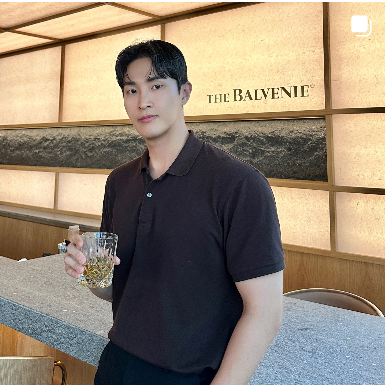
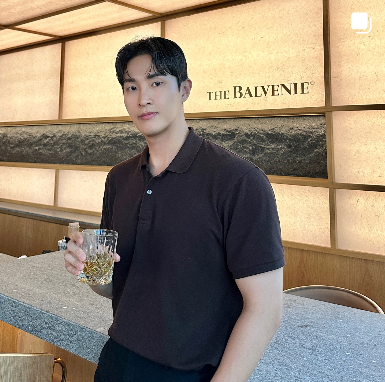
:art: add picture

diff --git a/templates/output_copy.html b/templates/output_copy.html
@@ -263,7 +263,7 @@
       <div class="owl-carousel testimonial-carousel wow fadeInUp" data-wow-delay="0.1s">
         <div class="testimonial-item text-center row-width">
               <div class="testimonial-text rounded text-center p-3 col-md-6">
-                <img src="./static/images/feed.png" width="100%" height="90%">
+                <img src="./static/images/민철/민철2.png" width="100%" height="90%">
                 <br>
                 <h5 class="mb-1">1</h5>
               </div>
@@ -285,7 +285,7 @@
           </div>
             <div class="testimonial-item text-center row-width">
               <div class="testimonial-text rounded text-center p-3 col-md-6">
-                <img src="./static/images/feed.png" width="100%" height="85%">
+                <img src="./static/images/훈씨/훈씨2.png" width="100%" height="85%">
                 <br>
                 <h5 class="mb-1">2</h5>
               </div>
@@ -307,7 +307,7 @@
             </div>
             <div class="testimonial-item text-center row-width">
               <div class="testimonial-text rounded text-center p-3 col-md-6">
-                <img src="./static/images/feed.png" width="100%" height="85%">
+                <img src="./static/images/진신원/신원1.png" width="100%" height="85%">
                 <br>
                 <h5 class="mb-1">3</h5>
               </div>
@@ -477,9 +477,7 @@
               <div class="card-body">
                 <div class="row align-items-center h-100">
                   <div class="col-md-4">
-                    <figure class="avatar mx-auto mb-4 mb-md-0">
-                      <!-- <img src="images/faces/face20.jpg" alt="avatar"> -->
-                    </figure>
+                      <img src=".\static\assets\influ8.png" width="160px" style="border-radius: 100%">
                   </div>
                   <div class="col-md-8">
                     <h2 class="inf_1 text-white text-center text-md-left">--Major--</h2>
@@ -507,9 +505,7 @@
               <div class="card-body">
                 <div class="row align-items-center h-100">
                   <div class="col-md-5">
-                    <figure class="avatar mx-auto mb-4 mb-md-0">
-                      <!-- <img src="images/faces/face20.jpg" alt="avatar"> -->
-                    </figure>
+                      <img src=".\static\assets\influ4.jpg" width="100px" style="border-radius: 100%">
                   </div>
                   <div class="col-md-7">
                     <h4 class="inf_2 text-white text-center text-md-left">--Minor--</h4>
@@ -537,9 +533,7 @@
               <div class="card-body">
                 <div class="row align-items-center h-100">
                   <div class="col-md-5">
-                    <figure class="avatar mx-auto mb-4 mb-md-0">
-                      <!-- <img src="images/faces/face20.jpg" alt="avatar"> -->
-                    </figure>
+                    <img src=".\static\assets\influ10.jpg" width="100px" style="border-radius: 100%">
                   </div>
                   <div class="col-md-7">
                     <h4 class="inf_3 text-white text-center text-md-left">--Minor--</h4>
